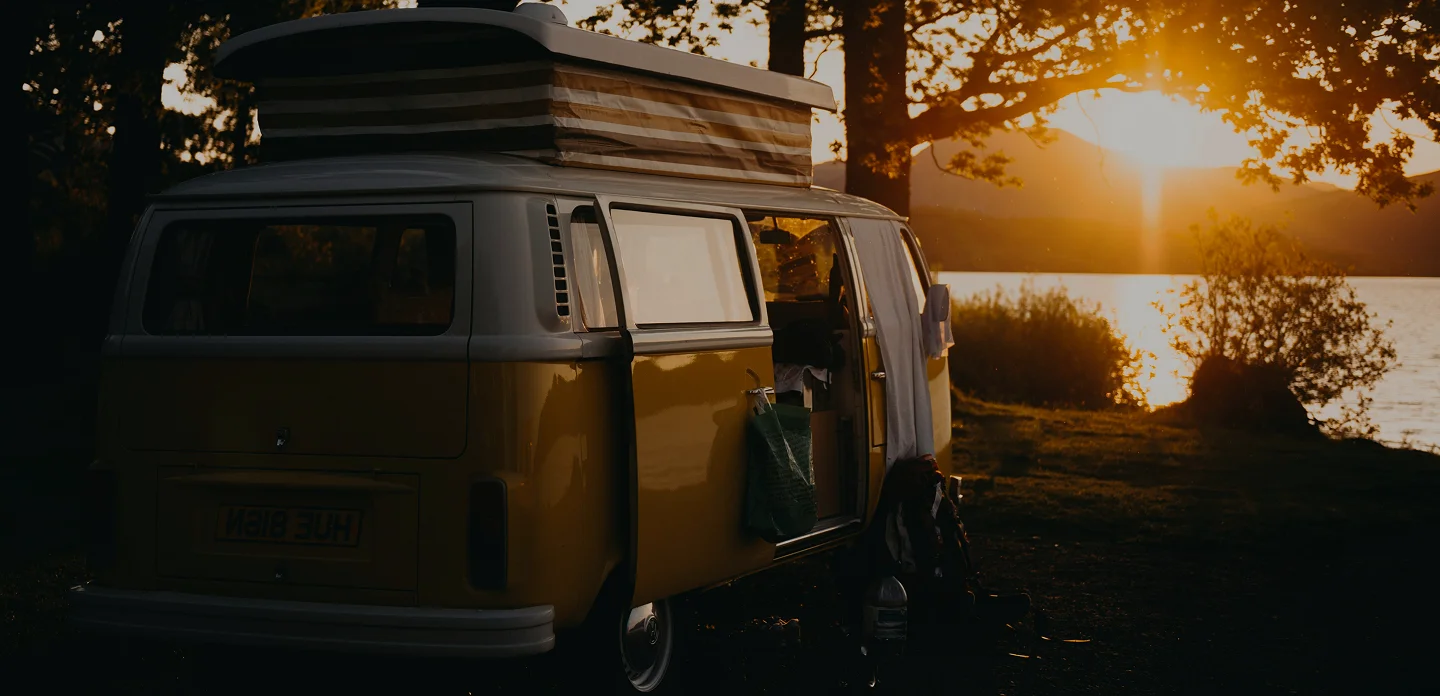
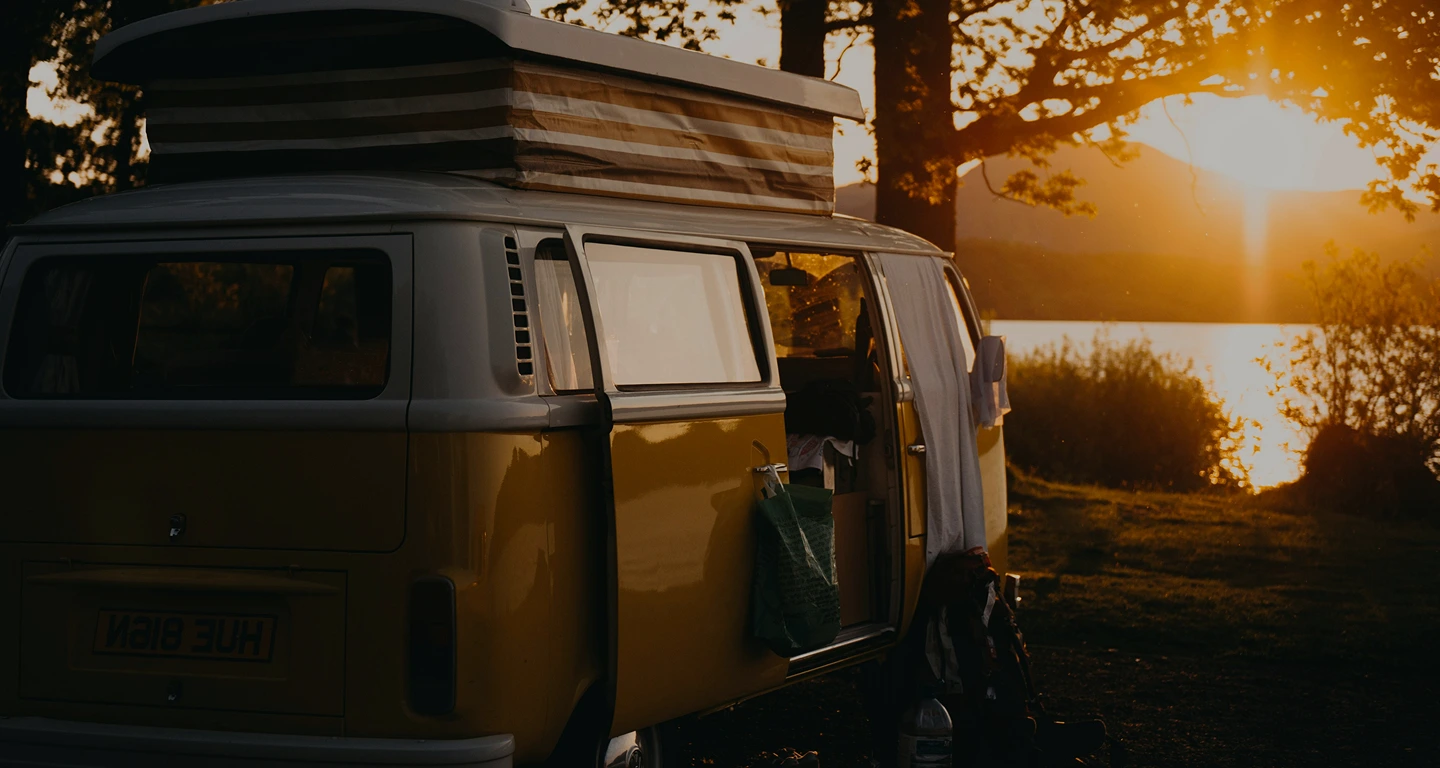
done Header component

diff --git a/components/Header/Header.tsx b/components/Header/Header.tsx
@@ -1,0 +1,24 @@
+import css from "./Header.module.css"
+import Image from "next/image";
+import Link from "next/link";
+
+export default function Header() {
+    return (
+        <header className={css.header}>
+            <Link
+                className={css.logo} href={"/"}>
+                <Image className={css.logoMobile} src="/logo.svg" alt="Logo" width={136} height={16}/>
+            </Link>
+            <nav className={css.navigation}>
+                <ul className={css.listNavigation}>
+                    <li className={css.listNavigationItem}>
+                        <Link className={css.link} href={"/"}>Home</Link>
+                    </li>
+                    <li className={css.listNavigationItem}>
+                        <Link className={css.link} href={"/catalog"}>Catalog</Link>
+                    </li>
+                </ul>
+            </nav>
+        </header>
+    );
+}

diff --git a/components/Header/Header.module.css b/components/Header/Header.module.css
@@ -1,0 +1,35 @@
+.header {
+    position: relative;
+    display: flex;
+    justify-content: space-between;
+    align-items: center;
+}
+
+.logo {
+    margin-left: 64px;
+    padding: 26px 0;
+}
+.navigation {
+    position: absolute;
+    left: 50%;
+    transform: translateX(-50%);
+}
+
+.listNavigation {
+    display: flex;
+    gap: 32px;
+}
+
+.listNavigationItem {
+    font-weight: 500;
+    font-size: 16px;
+    line-height: 1.5;
+}
+.link {
+    transition: color 250ms cubic-bezier(0.4, 0, 0.2, 1);
+}
+
+.link:hover,
+.link:focus{
+    color: var(--btn-primary);
+}

diff --git a/app/layout.tsx b/app/layout.tsx
@@ -1,6 +1,8 @@
 import type {Metadata} from "next";
 import {Geist, Geist_Mono} from "next/font/google";
 import "./globals.css";
+import Header from "@/components/Header/Header";
+import "modern-normalize";
 
 const geistSans = Geist({
     variable: "--font-geist-sans",
@@ -28,6 +30,7 @@ export default function RootLayout({
             className={`${geistSans.variable} ${geistMono.variable} h-full antialiased`}
         >
         <body>
+        <Header />
         {children}
         </body>
         </html>

diff --git a/app/Home.module.css b/app/Home.module.css
@@ -1,8 +1,8 @@
 .hero {
     position: relative;
     width: 100%;
-    height: 100vh;
-    background: url("/banner.webp");
+    height: calc(100vh - 72px);
+    background: url("/banner.webp") no-repeat center center;;
     background-size: cover;
 }
 
@@ -29,5 +29,5 @@
     line-height: 1.33333;
     color: var(--background-clr-blocks);
     margin-bottom: 40px;
-
 }
+

diff --git a/app/globals.css b/app/globals.css
@@ -30,6 +30,15 @@ html {
   color: var(--primary-text-color);
 }
 
+ul {
+  list-style: none;
+}
+
+a {
+  color: inherit;
+  text-decoration: none;
+}
+
 .container {
   padding: 64px;
   margin: 0 auto;

diff --git a/declarations.d.ts b/declarations.d.ts
@@ -1,0 +1,1 @@
+declare module "modern-normalize";
